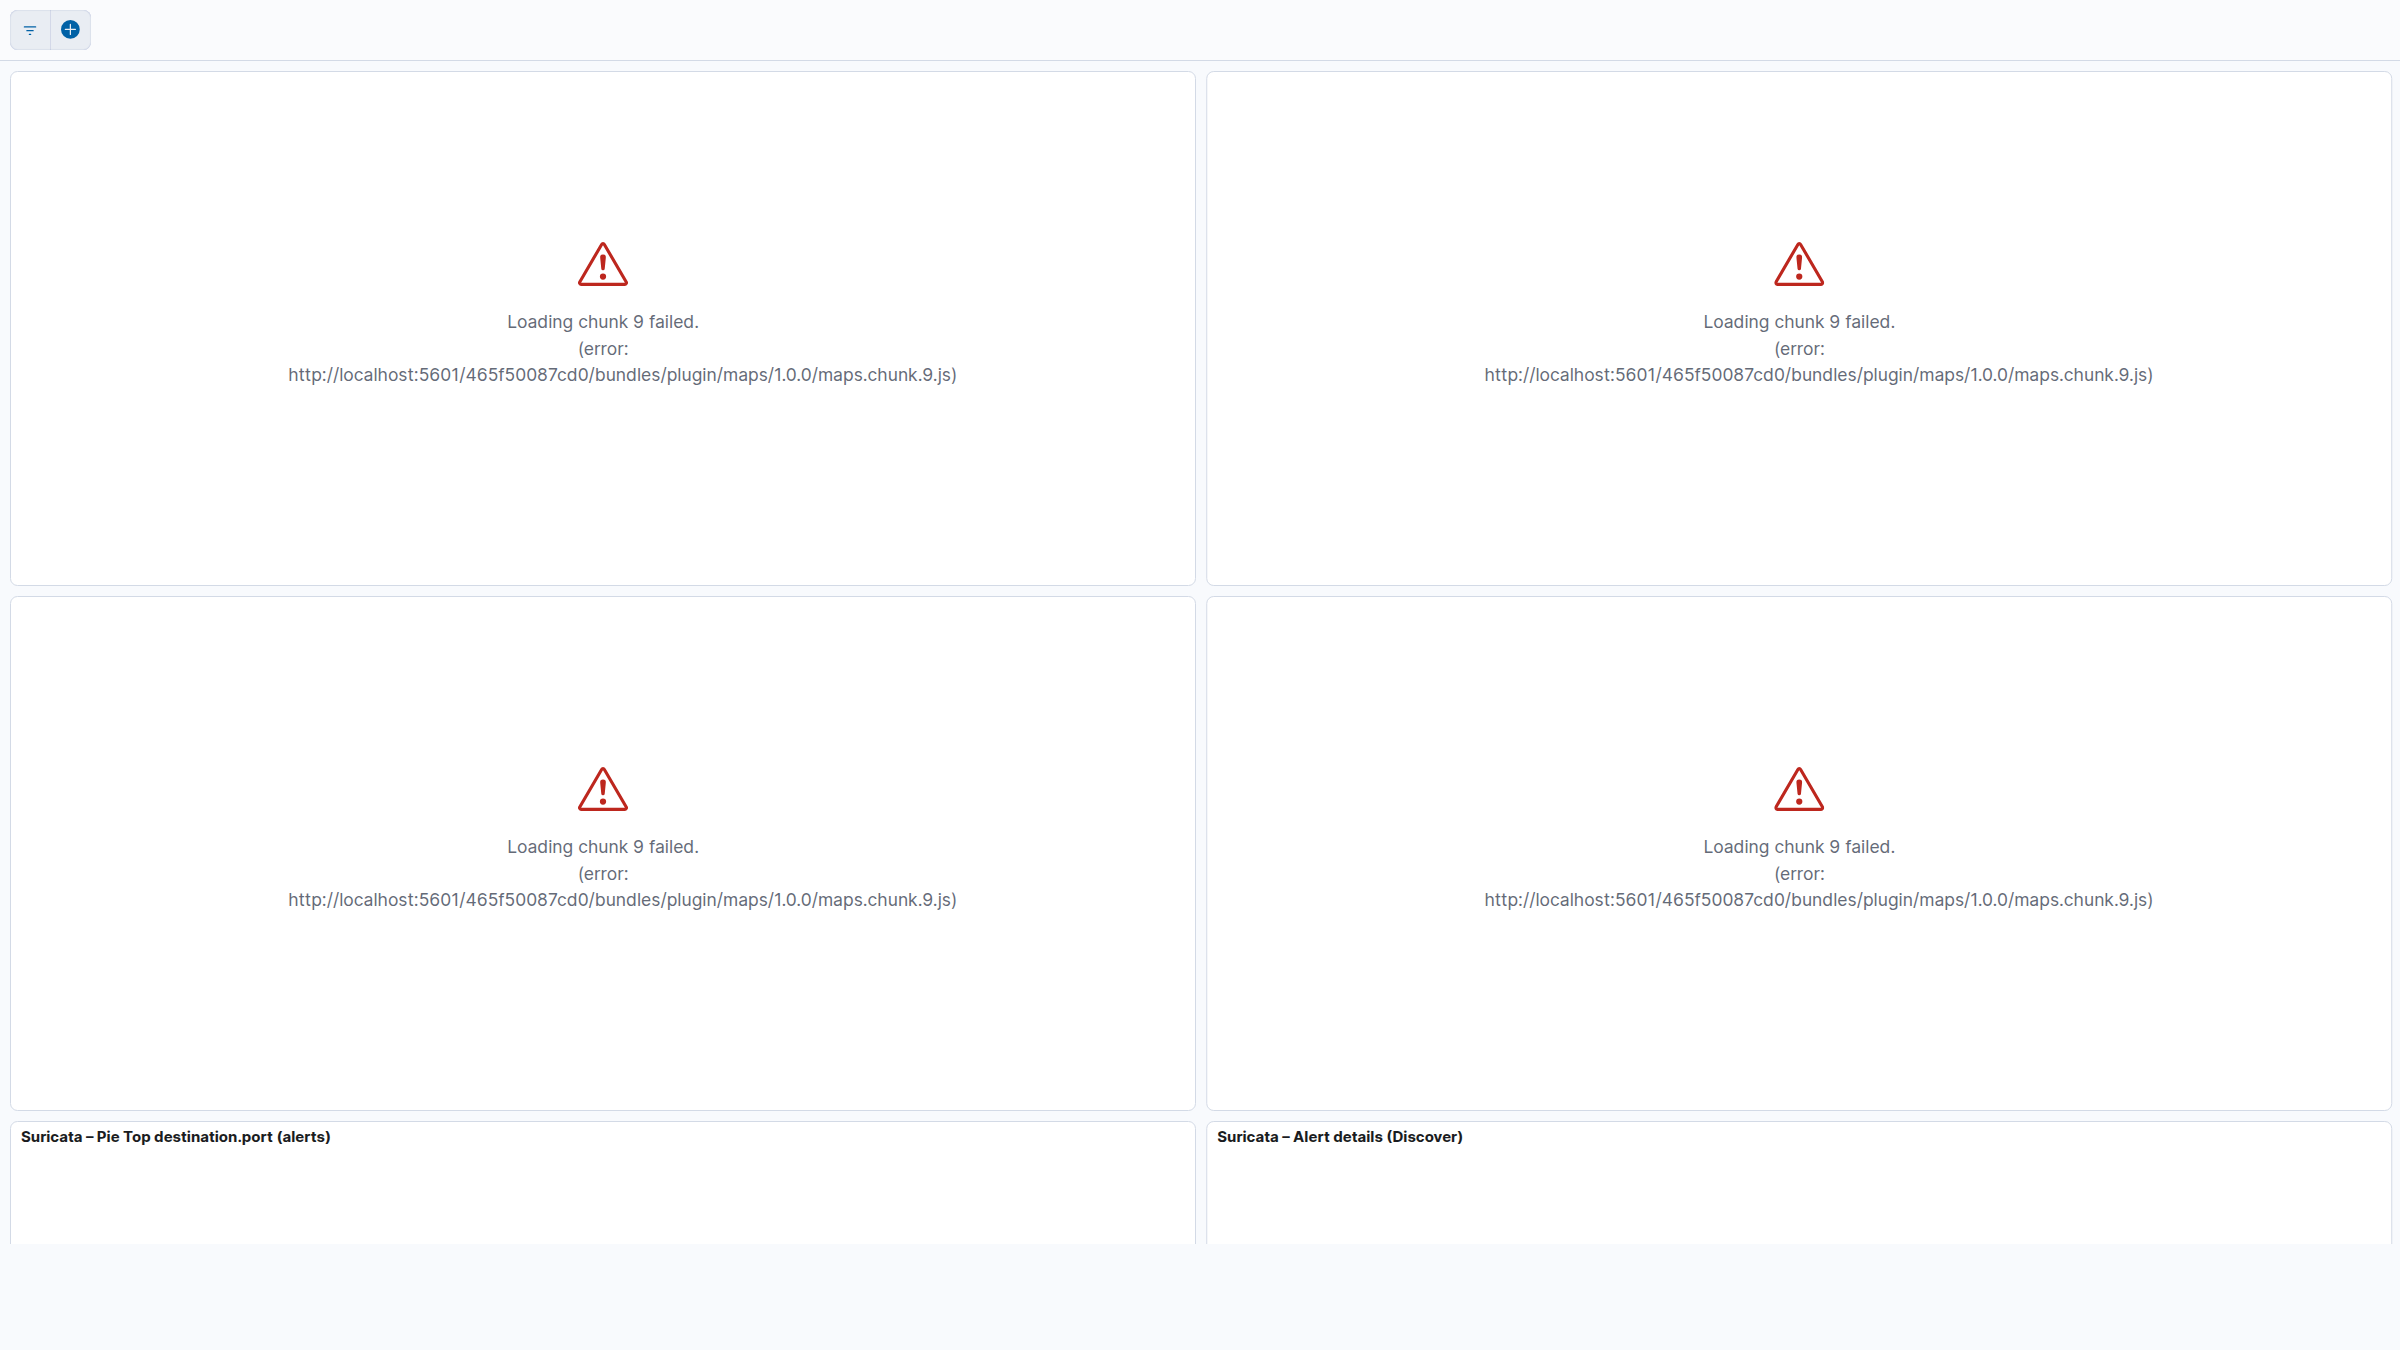
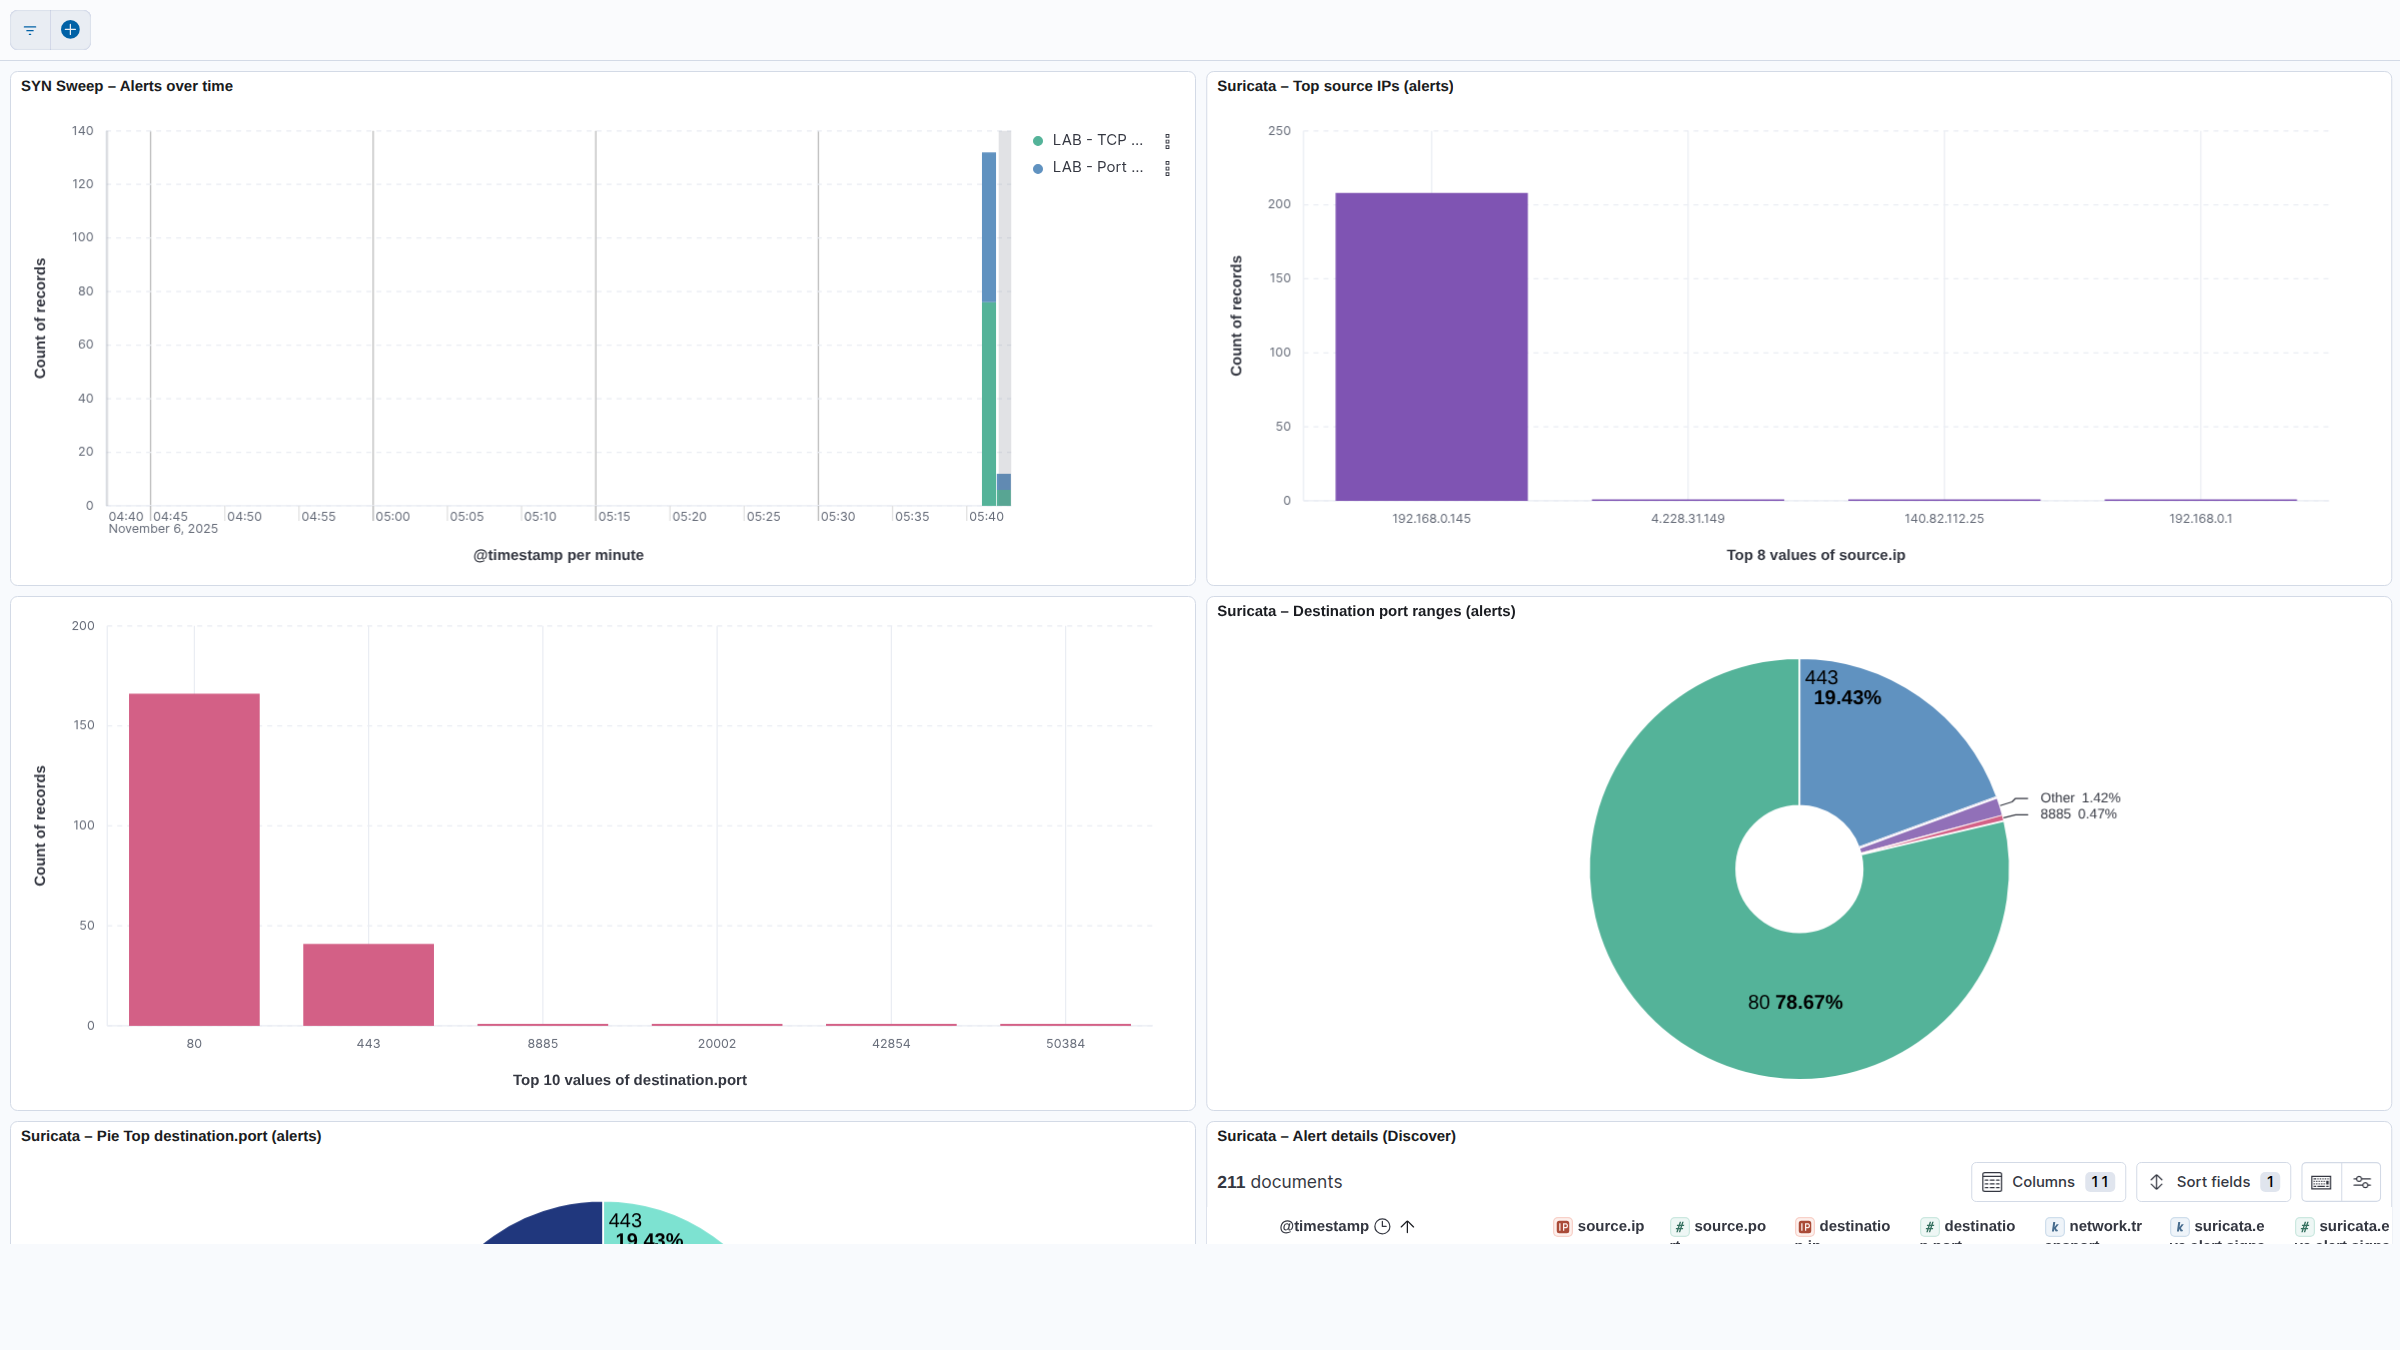
docs(screenshots): ensure data presence before capture; add panel-specific images and usage docs

diff --git a/docs/screenshots/README.md b/docs/screenshots/README.md
@@ -1,18 +1,17 @@
 Screenshots
 ===========
 
-Drop PNG/JPEG screenshots here and reference them from the README files.
+This folder contains real screenshots captured from Kibana using `scripts/capture_screenshots.sh`.
 
-Suggested captures
-- Dashboard overview (Port Scan Detection — Suricata)
-- Alerts over time (zoomed into a recent Nmap run)
-- Top source IPs and Top destination ports panels
-- Discover view with alert fields visible (timestamp, source/destination, signature)
+Included images
+- `dashboard_overview.png` — Dashboard “Port Scan Detection (Suricata)”, time range: last 1 hour
+- `dashboard_overview_last5.png` — Same dashboard, time range: last 10 minutes
+- `top_sources.png` — Lens: “Suricata – Top source IPs (alerts)” (embed view)
+- `discover_alerts.png` — Discover saved search: “Suricata – Alert details (Discover)”
 
-File naming
-- dashboard_overview.png
-- alerts_over_time.png
-- top_sources.png
-- top_ports.png
-- discover_alerts.png
+How to regenerate
+- Ensure recent alerts exist (run an Nmap SYN scan or generate outbound connections):
+  - `make nmap-local` (single-host) or generate multiple HTTP(S) requests
+- Run: `make screenshots`
+- The script retries until alerts are present and then captures all views in kiosk/embed mode.
 

diff --git a/README.md b/README.md
@@ -187,6 +187,14 @@ Recent activity (last 5 minutes):
 
 ![Dashboard Last 5m](docs/screenshots/dashboard_overview_last5.png)
 
+Top sources (alerts):
+
+![Top Sources](docs/screenshots/top_sources.png)
+
+Alert details (Discover):
+
+![Discover Alerts](docs/screenshots/discover_alerts.png)
+
 ## Changelog
 
 See CHANGELOG.md for versioned history and highlights.
